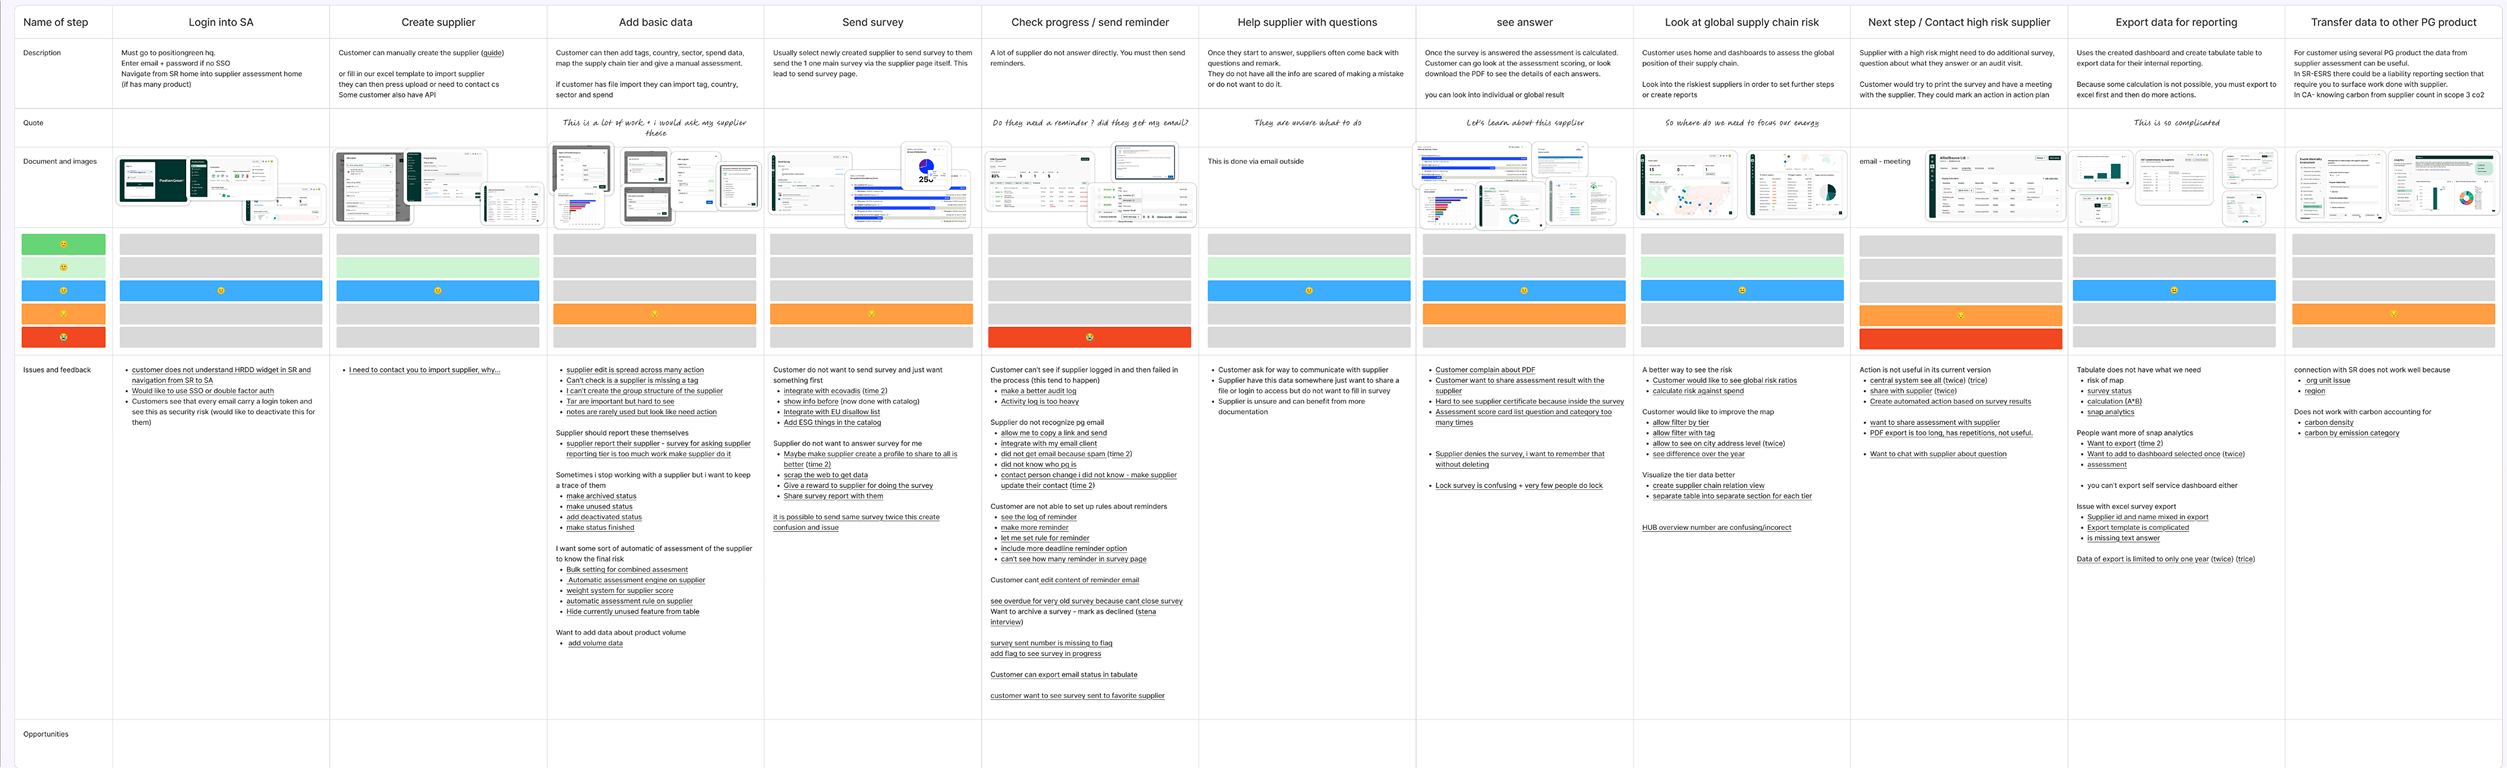
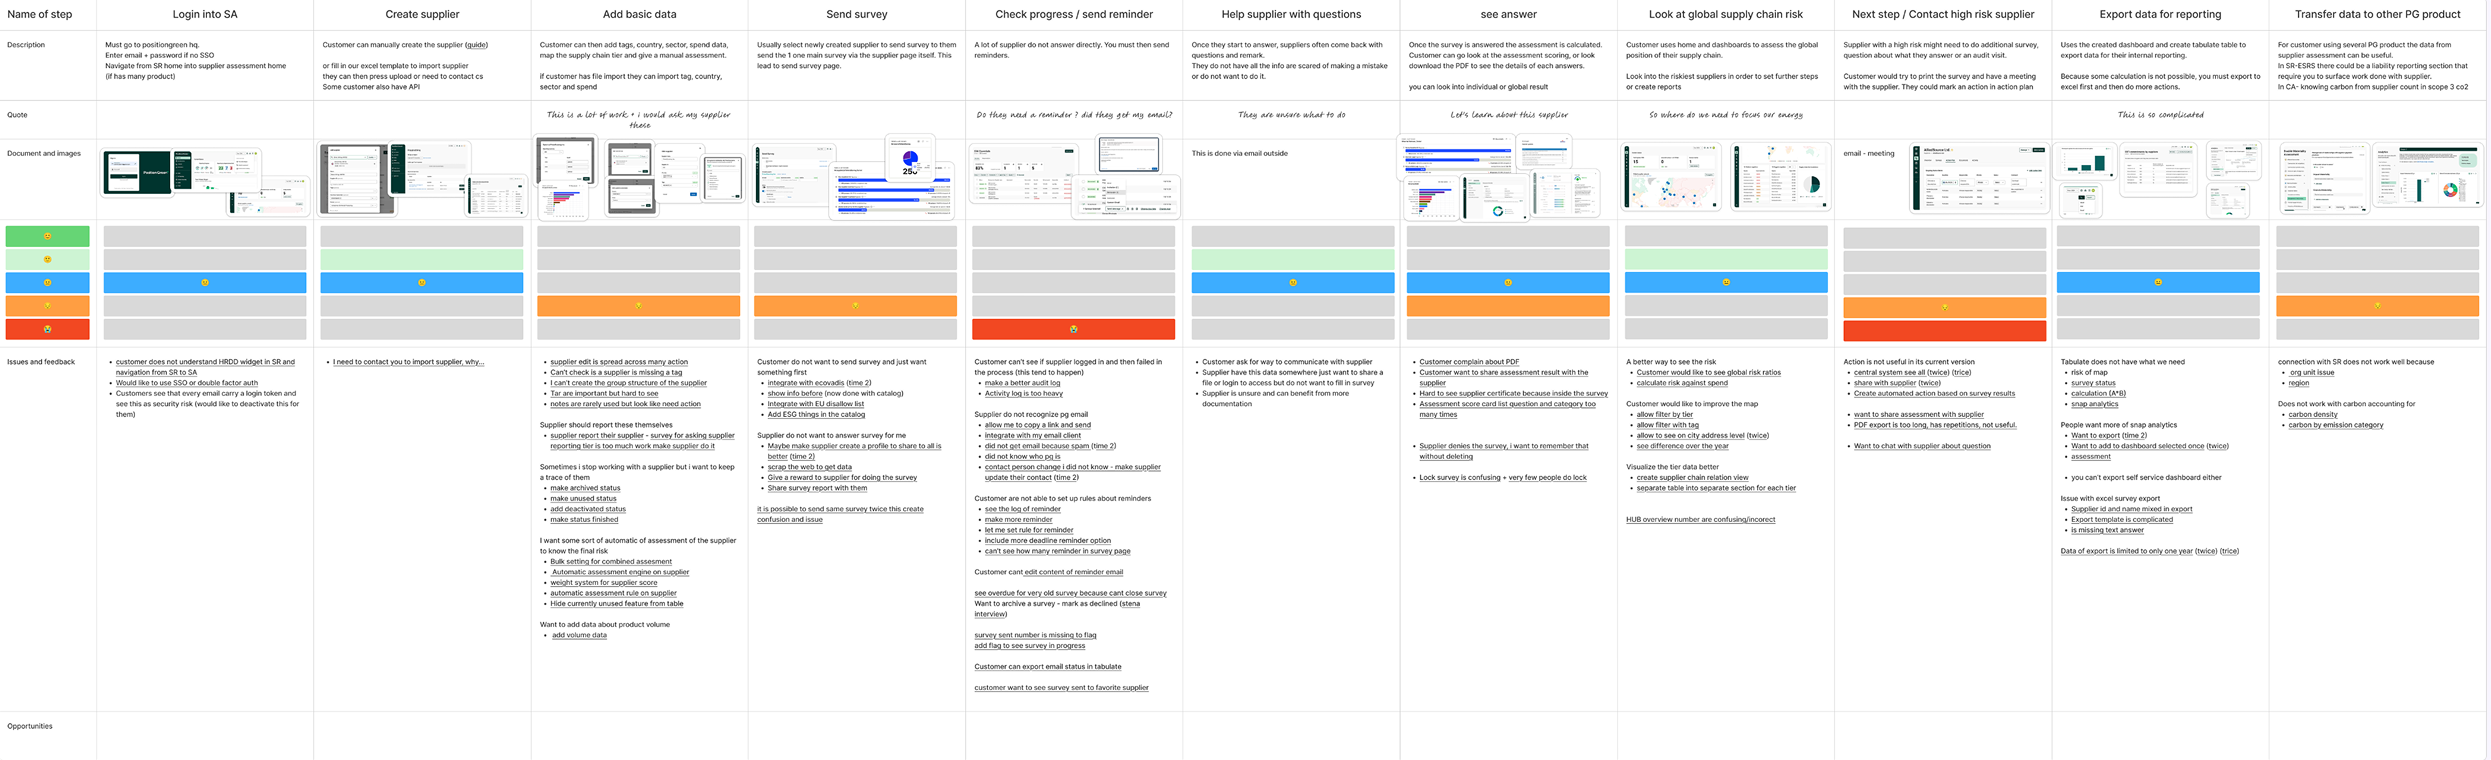
pg strategy images

Changed region(s): [[0.0, 0.0, 1.0, 0.9382], [0.0, 0.9382, 0.0309, 0.9684], [0.0, 0.1211, 0.0309, 0.1513]]

diff --git a/Work/PositionGreen-strategy.html b/Work/PositionGreen-strategy.html
@@ -48,12 +48,39 @@
 
     <div class="images-div">
         <div class="img-row">
-            <div class="img-expand img-greybg"></div>
-            <div class="img-fix img-greybg" ></div>
+            <div class="img-expand img-greybg"
+            style="
+            background: #F3F3F3 url('../Assets/pgstrategy/pgjourney.png');
+            background-repeat: no-repeat;
+            background-size: cover; 
+            background-position: left 0px;
+            border: solid 1px #F3F3F3"></div>
+
+            <div class="img-fix img-greybg" 
+            style="
+            background: #F3F3F3 url('../Assets/pgstrategy/pgdemo.png');
+            background-repeat: no-repeat;
+            background-size: cover; 
+            background-position: top 0px left 0px;
+            border: solid 1px #F3F3F3"></div>
         </div>
+
         <div class="img-row">
-            <div class="img-fix img-greybg"></div>
-            <div class="img-expand img-greybg"></div>
+            <div class="img-fix img-greybg"
+            style="
+            background: #F3F3F3 url('../Assets/pgstrategy/pgbrief.png');
+            background-repeat: no-repeat;
+            background-size: contain; 
+            background-position: center;
+            border: solid 1px #F3F3F3"></div>
+            
+            <div class="img-expand img-greybg"
+            style="
+            background: #4A9F9E url('../Assets/pgstrategy/pgidealjourney.png');
+            background-repeat: no-repeat;
+            background-size: cover; 
+            background-position: left 0px;
+            border: solid 1px #F3F3F3"></div>
         </div>
     </div>
 
